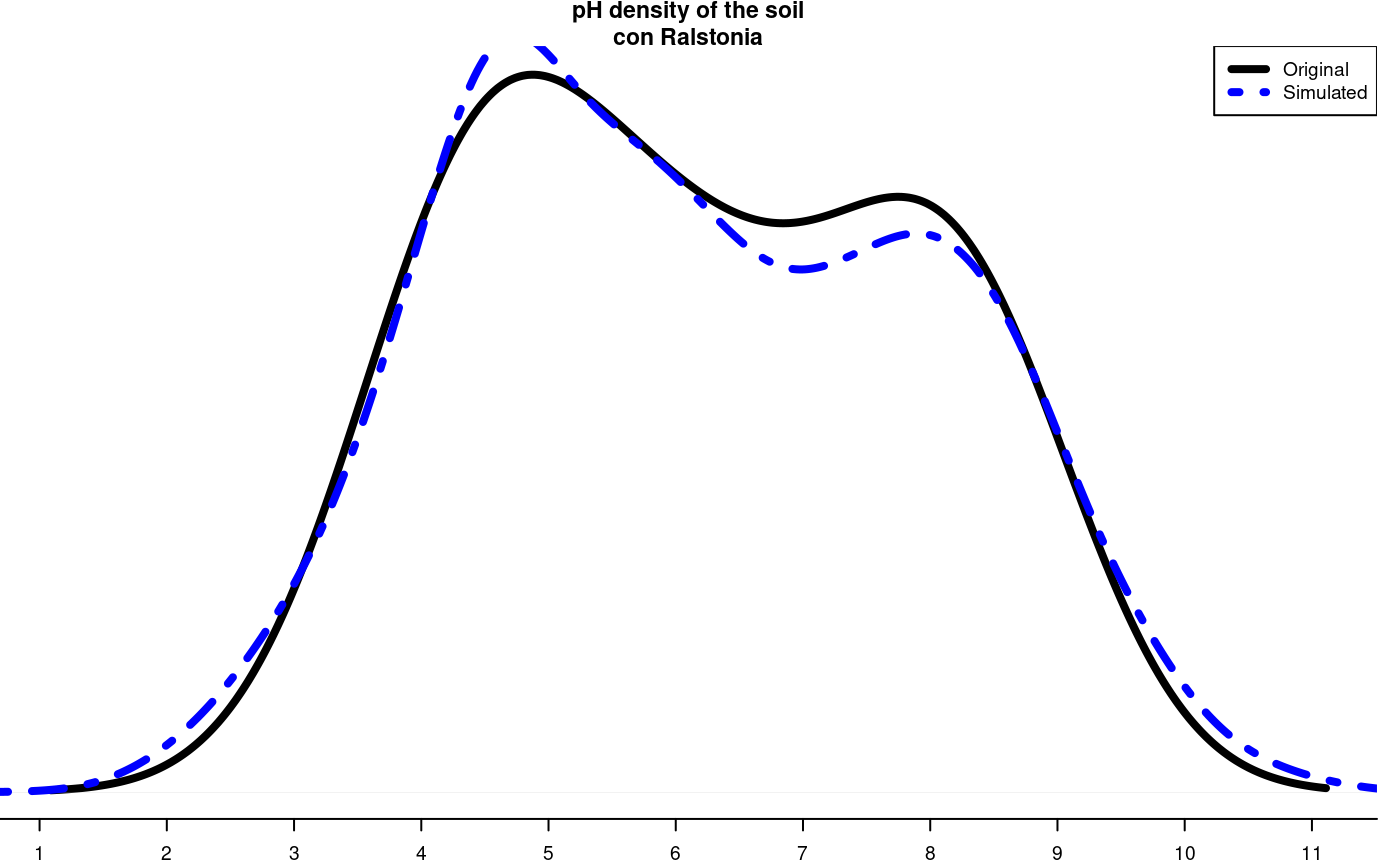
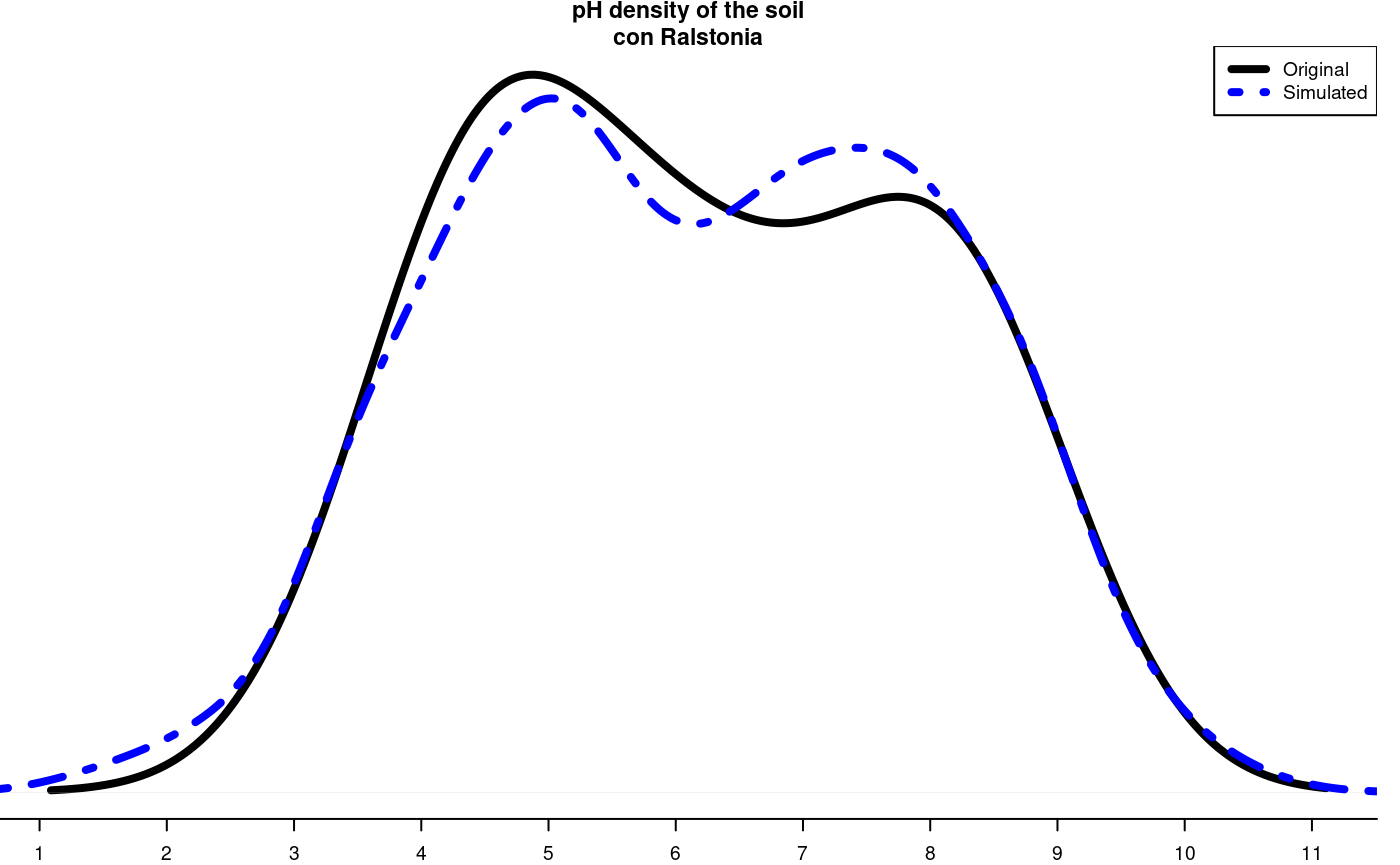
Version 1.4.0

diff --git a/docs/articles/SpecialFunctions.html b/docs/articles/SpecialFunctions.html
@@ -190,7 +190,7 @@ Method distance: binary
 Method cluster : complete
 rows and cols  : 25 107
 n-bootstrap    : 5
-Run time       : 0.6086473 secs </code></pre>
+Run time       : 0.5958719 secs </code></pre>
 <div class="figure">
 <img src="SpecialFunctions_files/figure-html/f7-1.png" alt="Dendrogram, production by `consensus`" width="700"><p class="caption">
 Dendrogram, production by <code>consensus</code>
@@ -216,12 +216,12 @@ Dendrogram, production by <code><a href="../reference/hcut.html">hcut()</a></cod
 <span class="no">data</span> <span class="kw">&lt;-</span> <span class="no">output</span>$<span class="no">table.dend</span>
 <span class="fu"><a href="https://rdrr.io/r/utils/head.html">head</a></span>(<span class="no">output</span>$<span class="no">table.dend</span>)</pre></body></html></div>
 <pre><code>   X1  X2 xaxis     height percentage groups
-1  -6 -24  7.50 0.02857143         60   6-24
-2  -3  -4 19.50 0.03571429         80    3-4
-3  -2  -8 22.50 0.03846154         60    2-8
-4  -7 -10 10.50 0.03846154         80   7-10
-5 -21   2 18.75 0.07142857         60 3-4-21
-6 -16   3 21.75 0.07407407         80 2-8-16</code></pre>
+1  -6 -24  7.50 0.02857143         40   6-24
+2  -3  -4 19.50 0.03571429         60    3-4
+3  -2  -8 22.50 0.03846154         40    2-8
+4  -7 -10 10.50 0.03846154         60   7-10
+5 -21   2 18.75 0.07142857         40 3-4-21
+6 -16   3 21.75 0.07407407         20 2-8-16</code></pre>
 <div class="sourceCode" id="cb10"><html><body><pre class="r"><span class="no">oldpar</span><span class="kw">&lt;-</span><span class="fu"><a href="https://rdrr.io/r/graphics/par.html">par</a></span>(<span class="kw">mar</span><span class="kw">=</span><span class="fu"><a href="https://rdrr.io/r/base/c.html">c</a></span>(<span class="fl">3</span>,<span class="fl">3</span>,<span class="fl">1</span>,<span class="fl">1</span>),<span class="kw">cex</span><span class="kw">=</span><span class="fl">0.6</span>)
 <span class="fu"><a href="https://rdrr.io/r/base/plot.html">plot</a></span>(<span class="no">dend</span>,<span class="kw">type</span><span class="kw">=</span><span class="st">"r"</span>,<span class="kw">edgePar</span> <span class="kw">=</span> <span class="fu"><a href="https://rdrr.io/r/base/list.html">list</a></span>(<span class="kw">lty</span><span class="kw">=</span><span class="fl">1</span>:<span class="fl">2</span>, <span class="kw">col</span><span class="kw">=</span><span class="fu"><a href="https://rdrr.io/r/grDevices/colors.html">colors</a></span>()[<span class="fu"><a href="https://rdrr.io/r/base/c.html">c</a></span>(<span class="fl">42</span>,<span class="fl">84</span>)]) ,<span class="kw">las</span><span class="kw">=</span><span class="fl">1</span>)
 <span class="fu"><a href="https://rdrr.io/r/graphics/text.html">text</a></span>(<span class="no">data</span>[,<span class="fl">3</span>],<span class="no">data</span>[,<span class="fl">4</span>],<span class="no">data</span>[,<span class="fl">5</span>],<span class="kw">col</span><span class="kw">=</span><span class="st">"blue"</span>,<span class="kw">cex</span><span class="kw">=</span><span class="fl">1</span>)</pre></body></html></div>
@@ -251,13 +251,13 @@ Distribution of the simulated and the original data
 <p>1000 data was simulated, being the frequency table:</p>
 <div class="sourceCode" id="cb15"><html><body><pre class="r"><span class="fu"><a href="https://rdrr.io/r/base/Round.html">round</a></span>(<span class="fu"><a href="../reference/table.freq.html">table.freq</a></span>(<span class="no">h</span>),<span class="fl">2</span>)</pre></body></html></div>
 <pre><code>  Lower Upper  Main Frequency Percentage   CF   CPF
-1  1.70  3.03  2.37        33        3.3   33   3.3
-2  3.03  4.36  3.70       151       15.1  184  18.4
-3  4.36  5.69  5.03       265       26.5  449  44.9
-4  5.69  7.02  6.36       205       20.5  654  65.4
-5  7.02  8.35  7.69       204       20.4  858  85.8
-6  8.35  9.68  9.02       120       12.0  978  97.8
-7  9.68 11.01 10.35        22        2.2 1000 100.0</code></pre>
+1  1.30  2.64  1.97        19        1.9   19   1.9
+2  2.64  3.98  3.31       107       10.7  126  12.6
+3  3.98  5.32  4.65       235       23.5  361  36.1
+4  5.32  6.66  5.99       214       21.4  575  57.5
+5  6.66  8.00  7.33       230       23.0  805  80.5
+6  8.00  9.34  8.67       165       16.5  970  97.0
+7  9.34 10.68 10.01        30        3.0 1000 100.0</code></pre>
 <p><strong>Some statistics, original data:</strong></p>
 <div class="sourceCode" id="cb17"><html><body><pre class="r"><span class="fu"><a href="https://rdrr.io/r/base/summary.html">summary</a></span>(<span class="no">soil</span>$<span class="no">pH</span>)</pre></body></html></div>
 <pre><code>   Min. 1st Qu.  Median    Mean 3rd Qu.    Max. 
@@ -265,7 +265,7 @@ Distribution of the simulated and the original data
 <p><strong>Some statistics, montecarlo simulate data:</strong></p>
 <div class="sourceCode" id="cb19"><html><body><pre class="r"><span class="fu"><a href="https://rdrr.io/r/base/summary.html">summary</a></span>(<span class="no">simulated</span>)</pre></body></html></div>
 <pre><code>   Min. 1st Qu.  Median    Mean 3rd Qu.    Max. 
-  1.776   4.659   5.933   6.143   7.718  10.993 </code></pre>
+  1.345   4.737   6.149   6.175   7.698  10.620 </code></pre>
 </div>
 <div id="re-sampling-in-linear-model" class="section level2">
 <h2 class="hasAnchor">
@@ -281,8 +281,8 @@ Distribution of the simulated and the original data
 <span class="fu"><a href="https://rdrr.io/r/base/print.html">print</a></span>(<span class="no">Xsol</span>,<span class="kw">na.print</span> <span class="kw">=</span> <span class="st">""</span>)</pre></body></html></div>
 <pre><code>             Df Sum Sq Mean Sq F value Pr(&gt;F) Resampling
 variety       1  25.09   25.09    7.26   0.02       0.01
-date          2  13.89    6.95    2.01   0.18       0.13
-variety:date  2   4.85    2.43    0.70   0.51       0.46
+date          2  13.89    6.95    2.01   0.18       0.19
+variety:date  2   4.85    2.43    0.70   0.51       0.56
 Residuals    12  41.48    3.46                          </code></pre>
 <p>The function <code><a href="../reference/resampling.model.html">resampling.model()</a></code> can be used when the errors have a different distribution from normal.</p>
 </div>
@@ -313,11 +313,11 @@ Validation of the analysis of variancia for the proposed model
 Simulations: 100 
 
              Df   F value % Acceptance % Rejection  Criterion
-variety       1 7.2580377           53          47 acceptable
-date          2 2.0095604           60          40 acceptable
-variety:date  2 0.7020312           72          28 acceptable
+variety       1 7.2580377           58          42 acceptable
+date          2 2.0095604           64          36 acceptable
+variety:date  2 0.7020312           65          35 acceptable
 ---</code></pre>
-<p>The validation is referred to the percentage of decision results equal to the result of the ANOVA decision. Thus, 72% of the results simulated on the interaction variety*date gave the same result of acceptance or rejection obtained in the ANOVA.</p>
+<p>The validation is referred to the percentage of decision results equal to the result of the ANOVA decision. Thus, 65% of the results simulated on the interaction variety*date gave the same result of acceptance or rejection obtained in the ANOVA.</p>
 </div>
 <div id="path-analysis" class="section level2">
 <h2 class="hasAnchor">
@@ -527,7 +527,7 @@ Method: Shannon
 The index: 2.541336 
 
 95 percent confidence interval:
- 2.228363 ; 3.063765 </code></pre>
+ 2.182006 ; 3.091759 </code></pre>
 </div>
 <div id="correlation" class="section level2">
 <h2 class="hasAnchor">

diff --git a/docs/reference/huasahuasi.html b/docs/reference/huasahuasi.html
@@ -52,7 +52,18 @@ the control of potato late blight in Peru — huasahuasi" />
 successful component of integrated management packages that include
 cultivars with moderate or high levels of resistance to late blight. The
 simplicity of measuring accumulated rainfall means that the technology can
-potentially be used by resource-poor farmers in developing countries." />
+potentially be used by resource-poor farmers in developing countries.
+The experimental unit was formed by 4 furrows of 1.8 m of length, with
+distance between furrows from 0.90 m and between plants of 0.30 m. In each
+furrow was installed 5 plants. The experiment had 3 repetitions.  From the
+beginning of the experiment were fulfilled the following treatments
+Thresholds 40 mm: Apply the fungicide when 40 precipitation mm accumulates.
+The minimum interval between applications will be of 7 days.  Schedule 7
+days: The applications should be carried out every 7 days calendar.  Without
+application: No fungicide application will be made.  The evaluation of the
+severity of the late blight in each treatment started to emergency 80
+percentage and then evaluations were made every 7 days until being observed
+a physiological maturation of the crop." />
 
 
 
@@ -208,30 +219,7 @@ successful component of integrated management packages that include
 cultivars with moderate or high levels of resistance to late blight. The
 simplicity of measuring accumulated rainfall means that the technology can
 potentially be used by resource-poor farmers in developing countries.</p>
-    </div>
-
-
-
-    <h2 class="hasAnchor" id="format"><a class="anchor" href="#format"></a>Format</h2>
-
-    <p>The format is: List of 2 ( AUDPC, YIELD )</p><dl'>
-<dt>list("block")</dt><dd><p>a factor with levels <code>I</code> <code>II</code> <code>III</code></p></dd>
-<dt>list("trt")</dt><dd><p>a factor with levels <code>40mm</code> <code>7-days</code>
-<code>Non-application</code></p></dd> <dt>list("clon")</dt><dd><p>a factor with levels
-<code>C386209.10</code> <code>C387164.4</code> <code>Cruza148</code> <code>Musuq</code>
-<code>Yungay</code></p></dd> <dt>list("y1da")</dt><dd><p>a numeric vector, Kgr./plot</p></dd>
-<dt>list("y2da")</dt><dd><p>a numeric vector, Kgr./plot</p></dd> <dt>list("y3ra")</dt><dd><p>a
-numeric vector, Kgr./plot</p></dd> <dt>list("d44")</dt><dd><p>a numeric vector, 44 days</p></dd>
-<dt>list("d51")</dt><dd><p>a numeric vector, 51 days</p></dd> <dt>list("d100")</dt><dd><p>a numeric
-vector, 100 days</p></dd> 
-</dl>
-
-    <h2 class="hasAnchor" id="source"><a class="anchor" href="#source"></a>Source</h2>
-
-    <p>Experimental field, 2003. Data Kindly provided by Wilmer Perez.</p>
-    <h2 class="hasAnchor" id="details"><a class="anchor" href="#details"></a>Details</h2>
-
-    <p>The experimental unit was formed by 4 furrows of 1.8 m of length, with
+<p>The experimental unit was formed by 4 furrows of 1.8 m of length, with
 distance between furrows from 0.90 m and between plants of 0.30 m. In each
 furrow was installed 5 plants. The experiment had 3 repetitions.  From the
 beginning of the experiment were fulfilled the following treatments
@@ -242,6 +230,29 @@ application: No fungicide application will be made.  The evaluation of the
 severity of the late blight in each treatment started to emergency 80
 percentage and then evaluations were made every 7 days until being observed
 a physiological maturation of the crop.</p>
+    </div>
+
+    <pre class="usage"><span class='fu'><a href='https://rdrr.io/r/utils/data.html'>data</a></span>(<span class='no'>huasahuasi</span>)</pre>
+
+
+    <h2 class="hasAnchor" id="format"><a class="anchor" href="#format"></a>Format</h2>
+
+    <p>An object of class <code>list</code> with two elements: AUDPC and YIELD</p>
+<p>@details</p><ul>
+<li><p><strong>block</strong>  a factor with levels I, II, and III</p></li>
+<li><p><strong>trt</strong>  a factor with levels 40mm, 7-days, and Non-application</p></li>
+<li><p><strong>clon</strong> a factor with levels C386209.10, C387164.4, Cruza148, Musuq, and Yungay</p></li>
+<li><p><strong>y1da</strong> y1da</p></li>
+<li><p><strong>y2da</strong> y2da</p></li>
+<li><p><strong>y3ra</strong> y3ra</p></li>
+<li><p><strong>d44</strong> 44 days</p></li>
+<li><p><strong>d51</strong> 51 days</p></li>
+<li><p><strong>d100</strong> 100 days</p></li>
+</ul>
+
+    <h2 class="hasAnchor" id="source"><a class="anchor" href="#source"></a>Source</h2>
+
+    <p>Experimental field, 2003. Data Kindly provided by Wilmer Perez.</p>
     <h2 class="hasAnchor" id="references"><a class="anchor" href="#references"></a>References</h2>
 
     <p>International Potato Center. CIP - Lima Peru.</p>

diff --git a/docs/reference/consensus.html b/docs/reference/consensus.html
@@ -288,7 +288,7 @@ Tibshirani. 1993. Chapman and Hall/CRC</p>
 #&gt; Method cluster : complete
 #&gt; rows and cols  : 25 107
 #&gt; n-bootstrap    : 5
-#&gt; Run time       : 0.6671653 secs 
+#&gt; Run time       : 0.5816958 secs 
 #&gt; </div><div class='img'><img src='consensus-1.png' alt='' width='700' height='433' /></div><div class='input'><span class='co'># Order consensus</span>
 <span class='no'>Groups</span><span class='kw'>&lt;-</span><span class='no'>output</span>$<span class='no'>table.dend</span>[,<span class='fu'><a href='https://rdrr.io/r/base/c.html'>c</a></span>(<span class='fl'>6</span>,<span class='fl'>5</span>)]
 <span class='no'>Groups</span><span class='kw'>&lt;-</span><span class='no'>Groups</span>[<span class='fu'><a href='https://rdrr.io/r/base/order.html'>order</a></span>(<span class='no'>Groups</span>[,<span class='fl'>2</span>],<span class='kw'>decreasing</span><span class='kw'>=</span><span class='fl'>TRUE</span>),]
@@ -356,7 +356,7 @@ Tibshirani. 1993. Chapman and Hall/CRC</p>
 #&gt; Method cluster : complete
 #&gt; rows and cols  : 43 107
 #&gt; n-bootstrap    : 5
-#&gt; Run time       : 0.04187942 secs 
+#&gt; Run time       : 0.03517509 secs 
 #&gt; </div><div class='img'><img src='consensus-5.png' alt='' width='700' height='433' /></div><div class='input'>## using distance gower, require cluster package.
 # output&lt;-consensus( pamCIP,distance="gower", method="complete",nboot=5)
 

diff --git a/docs/reference/wilt.html b/docs/reference/wilt.html
@@ -213,7 +213,14 @@ to 11 days.  see data(soil) and data(ralstonia)</p>
     <h2 class="hasAnchor" id="format"><a class="anchor" href="#format"></a>Format</h2>
 
     <p>A <code>data.frame</code> with 13 observations on the following 15 variables.</p>
-<p>@details</p><ul>
+    <h2 class="hasAnchor" id="source"><a class="anchor" href="#source"></a>Source</h2>
+
+    <p>Experimental field, 2004. Data Kindly provided by Dr. Sylvie Priou,
+Liliam Gutarra and Pedro Aley.</p>
+    <h2 class="hasAnchor" id="details"><a class="anchor" href="#details"></a>Details</h2>
+
+    
+<ul>
 <li><p><strong>place</strong> a factor with levels 
               Chmar, Chz, Cnt1, Cnt2, Cnt3, 
               Hco1, Hco2, Hco3, Hyo1, Hyo2, Namora, SR1, and SR2</p></li>
@@ -233,10 +240,6 @@ to 11 days.  see data(soil) and data(ralstonia)</p>
 <li><p><strong>relative</strong>     relative area</p></li>
 </ul>
 
-    <h2 class="hasAnchor" id="source"><a class="anchor" href="#source"></a>Source</h2>
-
-    <p>Experimental field, 2004. Data Kindly provided by Dr. Sylvie Priou,
-Liliam Gutarra and Pedro Aley.</p>
     <h2 class="hasAnchor" id="references"><a class="anchor" href="#references"></a>References</h2>
 
     <p>International Potato Center. CIP - Lima Peru.</p>

diff --git a/docs/reference/yacon.html b/docs/reference/yacon.html
@@ -225,7 +225,14 @@ in a liquid.</p>
     <h2 class="hasAnchor" id="format"><a class="anchor" href="#format"></a>Format</h2>
 
     <p>A <code>data.frame</code> with 432 observations on the following 19 variables.</p>
-<p>@details</p><ul>
+    <h2 class="hasAnchor" id="source"><a class="anchor" href="#source"></a>Source</h2>
+
+    <p>CIP. Experimental field, 2003, Data Kindly provided by Ivan Manrique
+and Carolina Tasso.</p>
+    <h2 class="hasAnchor" id="details"><a class="anchor" href="#details"></a>Details</h2>
+
+    
+<ul>
 <li><p><strong>locality</strong> a factor with levels, Cajamarca, Lima, Oxapampa in PERU</p></li>
 <li><p><strong>site</strong> site</p></li>
 <li><p><strong>dose</strong> a factor with levels F0, F150, and F80</p></li>
@@ -248,10 +255,6 @@ in a liquid.</p>
 <li><p><strong>IH</strong> IH</p></li>
 </ul>
 
-    <h2 class="hasAnchor" id="source"><a class="anchor" href="#source"></a>Source</h2>
-
-    <p>CIP. Experimental field, 2003, Data Kindly provided by Ivan Manrique
-and Carolina Tasso.</p>
     <h2 class="hasAnchor" id="references"><a class="anchor" href="#references"></a>References</h2>
 
     <p>International Potato Center. CIP - Lima Peru.</p>

diff --git a/docs/reference/resampling.cv.html b/docs/reference/resampling.cv.html
@@ -240,7 +240,7 @@ Boostrap. Chapman and Hall/CRC</p>
 <span class='co'>#example table of molecular markers</span>
 <span class='fu'><a href='https://rdrr.io/r/utils/data.html'>data</a></span>(<span class='no'>markers</span>)
 <span class='no'>study</span><span class='kw'>&lt;-</span><span class='fu'>resampling.cv</span>(<span class='no'>markers</span>,<span class='kw'>size</span><span class='kw'>=</span><span class='fl'>1</span>,<span class='kw'>npoints</span><span class='kw'>=</span><span class='fl'>15</span>)</div><div class='output co'>#&gt; 
-#&gt; Time of process ... 1.706606 </div><div class='input'><span class='co'>#</span>
+#&gt; Time of process ... 1.432614 </div><div class='input'><span class='co'>#</span>
 <span class='co'># Results of the model</span>
 <span class='fu'><a href='https://rdrr.io/r/base/summary.html'>summary</a></span>(<span class='no'>study</span>$<span class='no'>model</span>)</div><div class='output co'>#&gt; 
 #&gt; Call:

diff --git a/docs/articles/Intro_agricolae.html b/docs/articles/Intro_agricolae.html
@@ -3051,7 +3051,7 @@ Method distance: binary
 Method cluster : complete
 rows and cols  : 25 107
 n-bootstrap    : 5
-Run time       : 0.65 secs </code></pre>
+Run time       : 0.8 secs </code></pre>
 <div class="figure">
 <img src="Intro_agricolae_files/figure-html/f7-1.png" alt="Dendrogram, production by `consensus`" width="700"><p class="caption">
 Dendrogram, production by <code>consensus</code>
